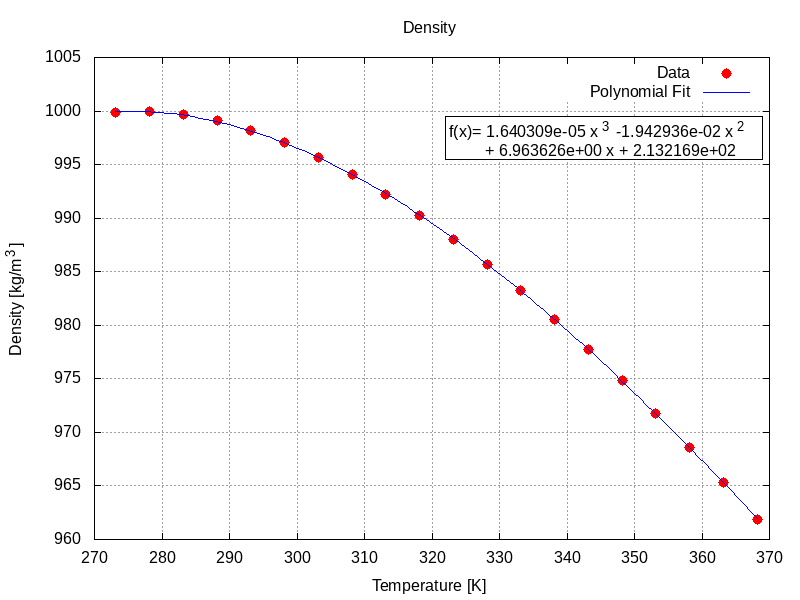
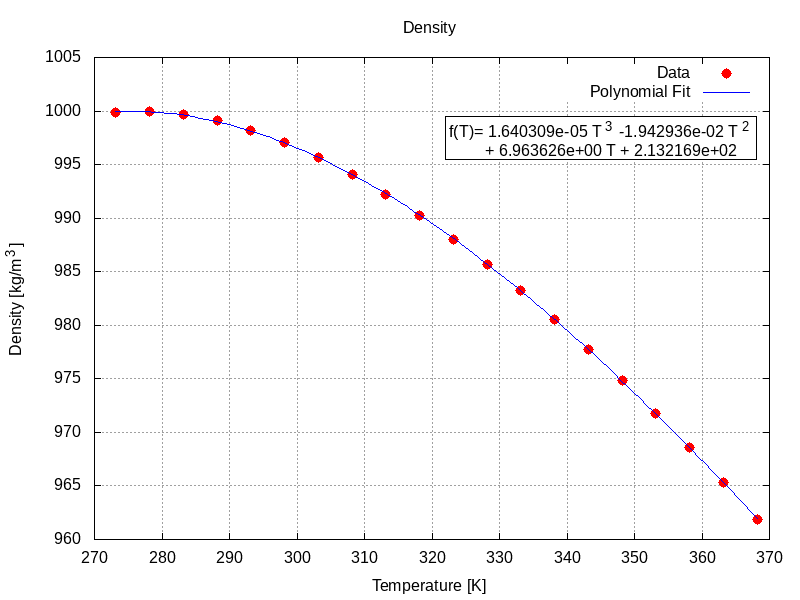
Updated thermophysical properties data

Changed region(s): [[0.5625, 0.21, 0.9375, 0.27]]

diff --git a/README.md b/README.md
@@ -160,7 +160,7 @@ The study simulates incompressible, nonisothermal, buoyant, turbulent flow of wa
 
 ### Initial Condition (IC) and Boundary Conditions (BC)
 
-
+TBD
 
 ### Thermophysical Models and Data
 
@@ -193,14 +193,19 @@ The thermophysical properties data for the thermophysical submodels is contained
     - The heat of formation, `Hf`, [J/kg].
 - The `equationOfState` sub-dictionary contains the cubic polynomial fit coefficients for density, `rhoCoeffs`, as function of temperature.
 
-The polynomial fit coefficients for dynamic viscosity, thermal conductivity, specific heat capacity at constant pressure and density as function of temperature are calculated based on the [water property data](water-properties/water-properties.dat) at atmospheric pressure of 101325 Pa and temperature between 0 and 95 degrees C (273.15 and 368.15 degrees K) from [IAPWS R7-97(2012)](http://www.iapws.org/relguide/IF97-Rev.html). The water property data is contained in the `water-properties.dat` file.
+The dynamic viscosity, thermal conductivity, specific heat capacity and density as function of temperature are calculated based on the water property data at atmospheric pressure of 101325 Pa and temperature between 0 and 95 degrees C (273.15 and 368.15 degrees K) from [IAPWS R7-97(2012)](http://www.iapws.org/relguide/IF97-Rev.html) contained in the [water property data file](water-properties/water-properties.dat).
 
+A [Gnuplot script](water-properties/water-properties.plt) is used to calculate the polynomial fit coefficients for dynamic viscosity, thermal conductivity, specific heat capacity and density as function of temperature. The [Gnuplot script](water-properties/water-properties.plt) is executed in the `water-properties` folder using:
 
+```
+gnuplot water-properties.plt
+```
+The water property data and the polynomial functions are shown below.
 
-
-
-
-
+Water Property Data and Polynomial Functions          |
+:-------------------------------------------------------:|
+<img src="water-properties/dynamic-viscosity-fit.png"> | <img src="water-properties/thermal-conductivity-fit.png">
+<img src="water-properties/specific-heat-capacity-fit.png"> | <img src="water-properties/density-fit.png"> 
 
 
 ### Turbulence Model
